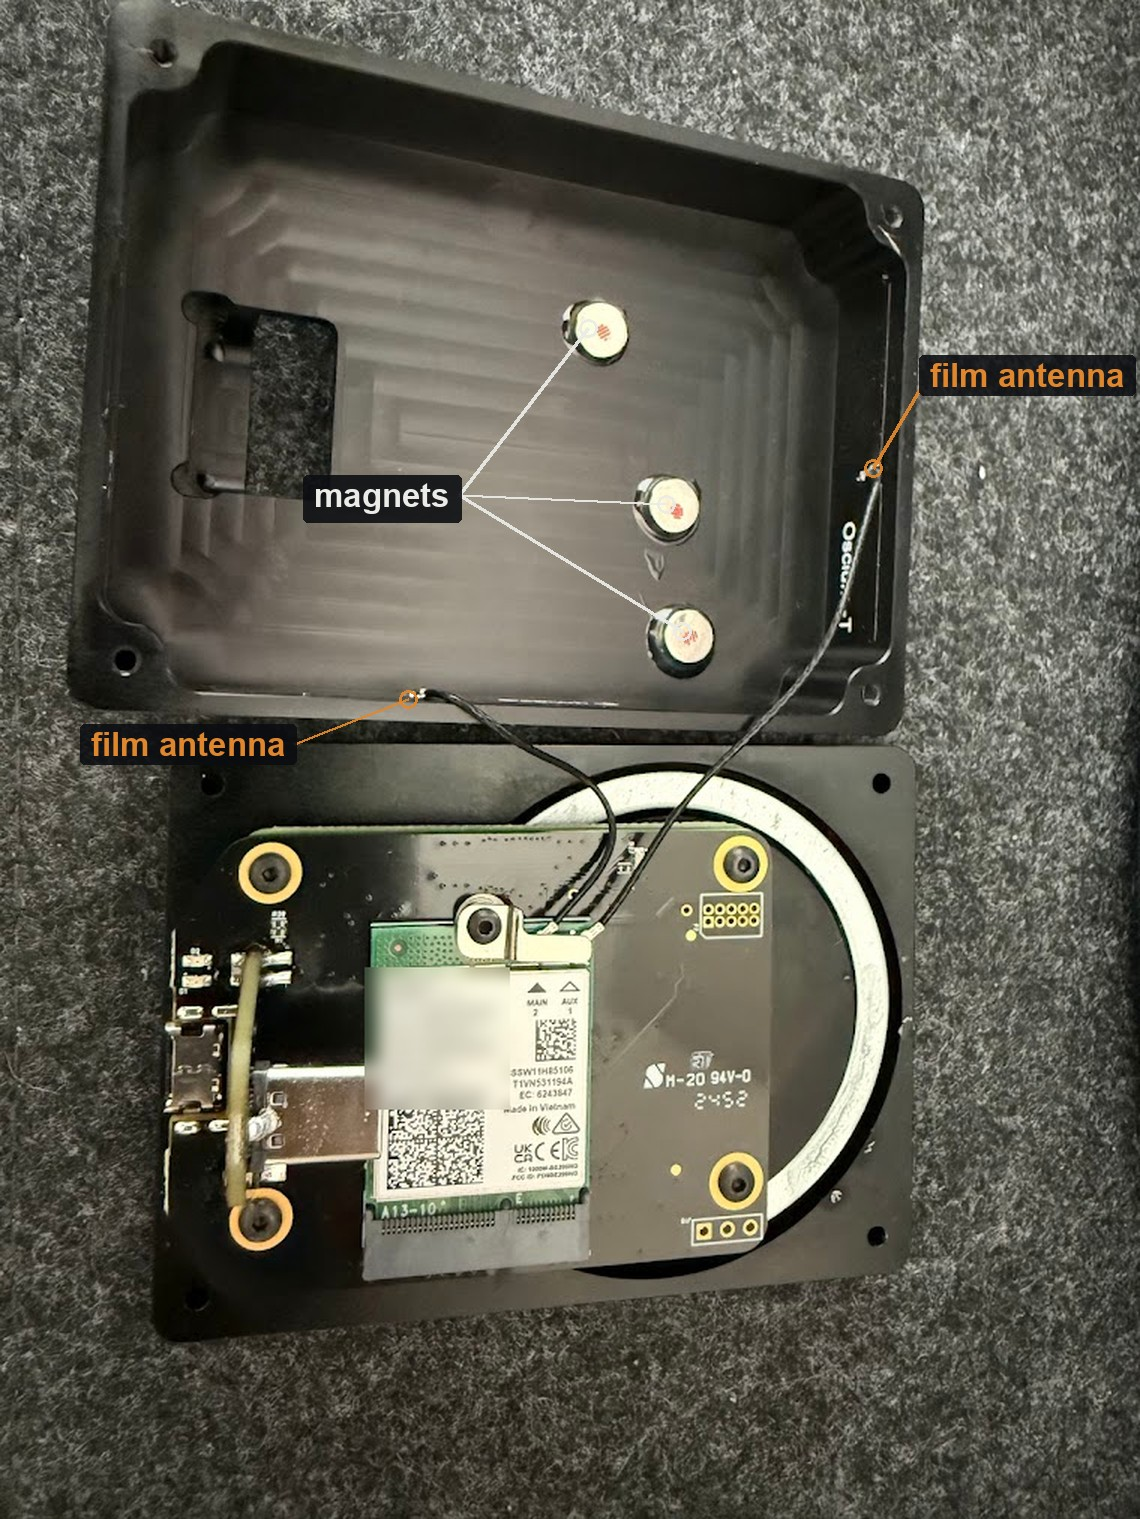
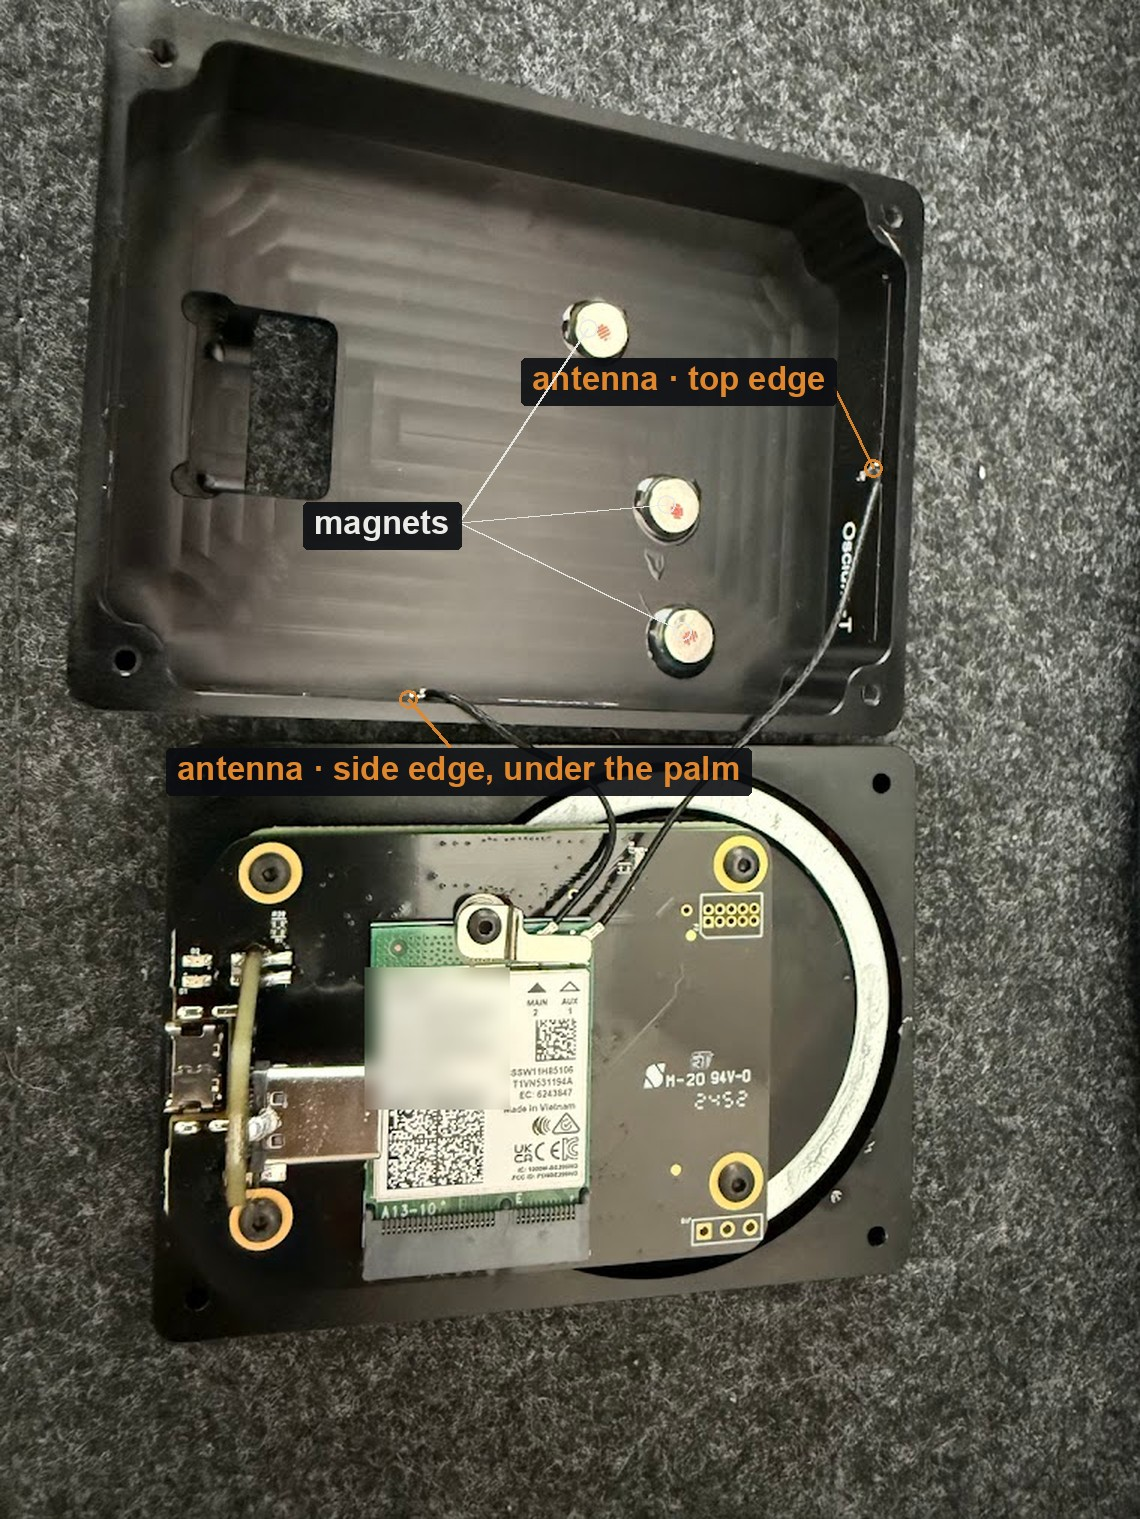
Name which of the Go's two antennas the hand covers
The photo shows one film antenna on the top edge of the case and one on the
side. Only the side one is under the palm in a normal grip, which is a
plausible mechanism for the Go losing roughly twice what the NanoPi does
when held -- and a sharper claim than 'the antennas are inside the shell'.

diff --git a/compare.html b/compare.html
@@ -1346,14 +1346,14 @@ td.strong{font-weight:700;color:var(--ink)}
     <figure class="teardown">
       <a href="images/wlanpi-go-inside.jpg" target="_blank" rel="noopener"><img src="images/wlanpi-go-inside.jpg" alt="A WLANPi Go opened up, annotated. Two thin coax cables leave the Intel BE200's MAIN and AUX connectors on the board and run up into the lid, where each terminates at a flat film antenna bonded to the inside of a case wall. Three discs in the middle of the lid are labelled as mounting magnets." loading="lazy"></a>
       <figcaption>
-        <strong>Where the Go&rsquo;s antennas actually are.</strong> Two thin coax cables leave the
-        BE200&rsquo;s MAIN and AUX connectors and run up into the lid, each ending at a flat film
-        antenna bonded to the inside of a case wall &mdash; one along the long side, one across the
-        end. The three discs in the middle of the lid are mounting magnets and radiate nothing.
-        So the elements are laminated to the shell itself, which is exactly where a palm goes; the
-        NanoPi&rsquo;s Osprey antennas screw onto external connectors and stand clear of the case.
-        The identifier block on the card label is blurred; the labels are ours, nothing else is
-        retouched.
+        <strong>Where the Go&rsquo;s antennas actually are.</strong> Two coax runs leave the
+        BE200&rsquo;s MAIN and AUX connectors and go up into the lid, each ending at a flat film
+        antenna bonded to the inside of a case wall &mdash; one on the <em>top</em> edge, one on the
+        <em>side</em>. The three discs in the middle are mounting magnets and radiate nothing.
+        The side element is the one a palm wraps around when you pick the unit up, which is a
+        plausible mechanism for the hand cost above: the Osprey antennas screw onto external
+        connectors and stand clear of the case in any grip. Card identifiers blurred; the labels
+        are ours, nothing else is retouched.
       </figcaption>
     </figure>
   </section>
